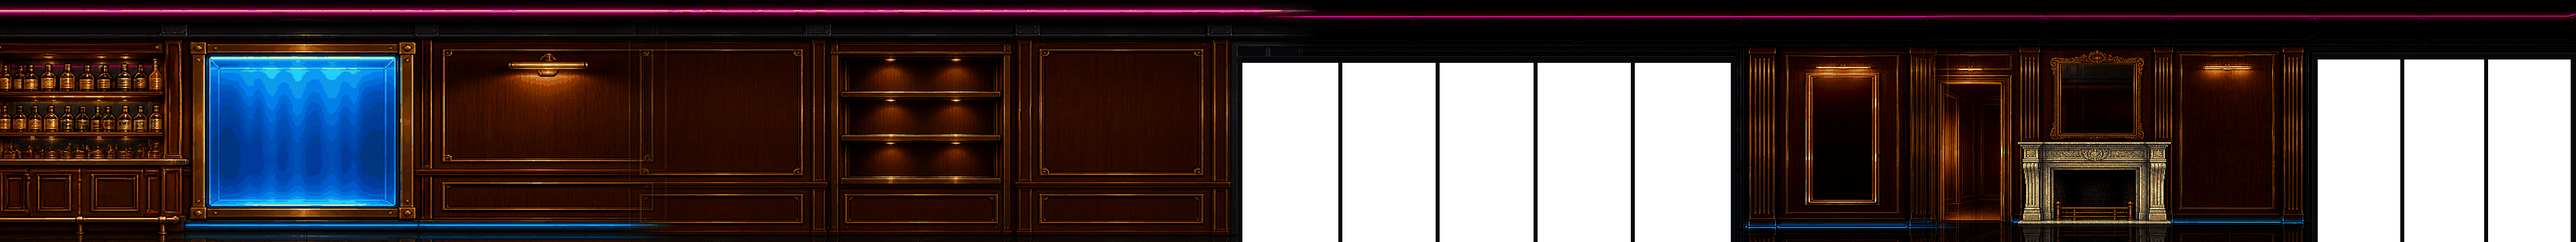
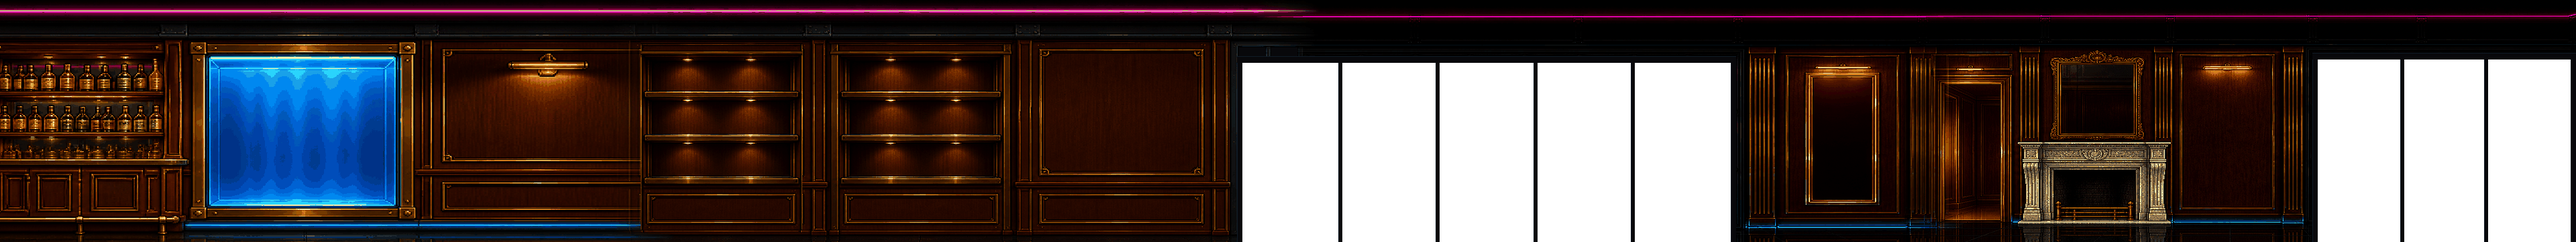
Two trophy niches, a built-in humidor, and an oil over the hearth

diff --git a/js/hub.js b/js/hub.js
@@ -41,7 +41,25 @@ const CEIL_MOUNT = 20;     // the window head beam, which is what the bag hangs 
 // picture light), TROPHIES AND MEDIA (alcove between two media walls), THE VIEW.
 const BAR = [0, 132];
 const TANK = { x: 150, y: 41, w: 150, h: 114 };     // the lit water, not the frame
-const ALCOVE = [629, 747];                          // niche interior
+// Two niches: the plate's original and the mirrored copy clone_alcove paints into the
+// bay next door. Three relics across a 118-wide niche leaves ~13 of air between them;
+// four fits arithmetically (the widest relic is 26) but leaves 3, which reads as a
+// jumble sale rather than a trophy wall.
+const NICHES = [[485, 595], [629, 747]];
+const SHELF_Y = [70, 103, 135];
+const ACROSS = 3;
+
+// One shelf is one country: ACROSS is the acts per country, so a shelf fills up exactly
+// as a chapter is cleared and the wall reads a country at a time. Niche-major, not
+// shelf-major - running a row across both niches would split a country over the pier.
+export const RELIC_SLOTS = NICHES.flatMap(([x0, x1]) => {
+  const step = (x1 - x0) / ACROSS;
+  return SHELF_Y.flatMap((y) => Array.from({ length: ACROSS },
+    (_, i) => [Math.round(x0 + step * (i + 0.5)), y]));
+});
+// Both niches together, for the cull and the select bracket.
+const TROPHY_WALL = [NICHES[0][0], NICHES[NICHES.length - 1][1]];
+
 // Every glass opening build_lair_wide.py leaves in the plate - it prints this list. The
 // gym's long run, then the bedroom's corner window.
 const OPENINGS = [[922, 1294], [1723, 1920]];
@@ -59,7 +77,7 @@ export const FIXTURES = [
   { id: 'bar', x: 60, hint: 'POUR ONE' },
   { id: 'tank', x: 225, hint: 'FEED THEM' },
   { id: 'lounge', x: 395, hint: 'SIT AND SMOKE' },
-  { id: 'trophies', x: 688, hint: 'TROPHY WALL' },
+  { id: 'trophies', x: 616, hint: 'TROPHY WALL' },   // the pier between the two niches
   { id: 'map', x: 800, hint: 'WORLD TOUR' },
   { id: 'hifi', x: 880, hint: 'SOUND TEST' },
   { id: 'bag', x: BAG_X, hint: 'WORK THE BAG', key: 'Z' },
@@ -120,11 +138,13 @@ const BED = { x: BED_X, y: WALL_BASE + 2, w: 140, h: 72 };
 const LAIR_ART = [
   // the lounge: stools at the painted bar, the portrait under its picture light
   { art: 'lair_bar_stools', x: 92, y: WALL_BASE, w: 46, h: 40 },
-  { art: 'lair_portrait', x: 395, y: 140, w: 106, h: 84 },
-  { art: 'lair_humidor', x: 485, y: WALL_BASE, w: 33, h: 88 },
-  // trophies and media. The arcade cabinet is decor now - its attract loop still runs,
-  // but HALL OF PAIN is gone and its records live on the trophy wall.
-  { art: 'lair_arcade', x: 555, y: WALL_BASE, w: 34, h: 68 },
+  // centred in its bay, whose gold inset measures x 330-477.5
+  { art: 'lair_portrait', x: 404, y: 140, w: 106, h: 84 },
+  // Trophies. Two niches now - see clone_alcove in tools/build_lair_wide.py - with the
+  // cigar cabinet built flush into the second one's base panel (482.5-591 x 147-165.5)
+  // rather than standing in front of the wall. The arcade cabinet is gone: it was the
+  // only injection-moulded object in a walnut room, and this bay is worth more as shelf.
+  { art: 'lair_humidor_built', x: 537, y: 166, w: 98, h: 19 },
   // centred in the panelled bay, whose gold inset measures x 775.75-895.75, y 37-130
   { art: 'lair_worldmap', x: 836, y: 109, w: 80, h: 48 },
   { art: 'lair_hifi', x: 880, y: WALL_BASE, w: 48, h: 60 },
@@ -141,6 +161,12 @@ const LAIR_ART = [
   // rather than white: the tiger sleeps in this room too, and the dark mane is what
   // frames the ivory fangs so they still read at this size. It lies forward of the wall
   // base, out into the walking lane, because that is where a rug in front of a fire goes.
+  // The oil over the hearth, covering the plate's overmantel mirror (frame 1528-1600,
+  // y 37.5-103.5) with a couple of px to spare on the ornate crest. Hung on the
+  // FIREPLACE's centre, not the mirror's - the plate has them 1.5px apart, and the eye
+  // lines a picture up with the mantel under it. It is the fight that produced the pelt
+  // lying on the floor directly below it.
+  { art: 'lair_overmantel', x: 1562, y: 105, w: 77, h: 68 },
   { art: 'lair_bed_rug', x: 1570, y: WALL_BASE + 55, w: 138, h: 54 },
   // as close to the bed as the wall allows - the window jamb starts at 1723
   { art: 'lair_bed_wardrobe', x: 1688, y: WALL_BASE, w: 62, h: 96 },
@@ -185,10 +211,6 @@ function fallbackArt(name, w, h) {
   } else if (name === 'lair_bar_stools') {
     panel('#3a2214', '#8a5a2a');
     P.rect(0, 2, w, 4, '#c8bca8');
-  } else if (name === 'lair_arcade') {
-    panel('#141018', '#3a3a4a');
-    P.rect(3, 3, w - 6, 4, '#d838a0');
-    P.rect(3, h * 0.16, w * 0.6, h * 0.28, '#05050a');
   } else if (name === 'lair_hifi') {
     panel('#101018', '#3a3a4a');
     for (let y = 6; y < h - 8; y += 9) P.rect(3, y, w * 0.5, 6, '#1a1a24');
@@ -196,9 +218,13 @@ function fallbackArt(name, w, h) {
     P.rect(0, h - 5, w, 4, '#2a2a34');
     P.rect(0, h * 0.4, w, 3, '#2a2a34');
     for (let i = 0; i < 5; i++) P.disc(8 + i * (w - 16) / 4, h * 0.34, 4, '#3a3a46');
-  } else if (name === 'lair_humidor') {
-    panel('#3a2214', '#8a5a2a');
-    P.rect(4, 6, w - 8, h - 14, '#5a3a1e');
+  } else if (name === 'lair_humidor_built') {
+    panel('#2a1a10', '#8a5a2a');
+    for (let i = 0; i < 4; i++) P.rect(4 + i * (w - 8) / 4, 3, (w - 8) / 4 - 3, h - 9, '#5a3a1e');
+  } else if (name === 'lair_overmantel') {
+    panel('#3a2a12', '#c8a038');
+    P.rect(6, 6, w - 12, h - 12, '#221a12');
+    P.disc(w * 0.4, h * 0.42, 9, '#c89a68');
   } else if (name === 'lair_bag_chain') {
     for (let y = 0; y < h; y += 3) P.rect(w / 2 - 1, y, 2, 2, (y / 3) & 1 ? '#7a7488' : '#3e3a4c');
   } else if (name === 'lair_lounge_empty' || name === 'lair_lounge_chad') {
@@ -261,10 +287,10 @@ function buildLairMid() {
   wood(WINDOW[1], CEIL, HUB_WIDTH - WINDOW[1], BASE - CEIL);
   P.rect(BAR[0], 120, BAR[1] - BAR[0], 40, '#3a2214');
   P.rect(TANK.x, TANK.y, TANK.w, TANK.h, '#12506e');
-  // the alcove, with its three shelves where SHELVES says they are
-  P.rect(ALCOVE[0] - 4, 35, ALCOVE[1] - ALCOVE[0] + 8, 104, '#0a0810');
-  for (const shelf of SHELVES) {
-    P.rect(ALCOVE[0], shelf.y - 2, ALCOVE[1] - ALCOVE[0], 3, '#c89a4a');
+  // both niches, with their shelves where SHELF_Y says they are
+  for (const [x0, x1] of NICHES) {
+    P.rect(x0 - 4, 35, x1 - x0 + 8, 104, '#0a0810');
+    for (const y of SHELF_Y) P.rect(x0, y - 2, x1 - x0, 3, '#c89a4a');
   }
   P.rect(MIRROR.x, MIRROR.y, MIRROR.w, MIRROR.h, '#2a2634');
   for (let x = WINDOW[0]; x < WINDOW[1]; x += 60) P.rect(x, CEIL, 4, BASE - CEIL, '#12121a');
@@ -516,10 +542,12 @@ function drawFirelight(ctx, camX) {
   ctx.fillStyle = g;
   ctx.fillRect(fx - 120, FLOOR_Y - 124, 240, 244);
 
-  // the overmantel mirror is a dead black rectangle otherwise; this is the fire in it
+  // Firelight climbing the oil above the hearth. This used to be the fire REFLECTED in
+  // the overmantel mirror, which wanted to be bright; a canvas only catches the light, so
+  // it is half the strength and warmer at the bottom edge nearest the flames.
   const mx = OVERMANTEL[0] - camX;
   const m = ctx.createLinearGradient(0, OVERMANTEL[1] + OVERMANTEL[3], 0, OVERMANTEL[1]);
-  m.addColorStop(0, `rgba(255,150,60,${0.16 * flick})`);
+  m.addColorStop(0, `rgba(255,160,70,${0.08 * flick})`);
   m.addColorStop(1, 'rgba(255,120,50,0)');
   ctx.fillStyle = m;
   ctx.fillRect(mx, OVERMANTEL[1], OVERMANTEL[2], OVERMANTEL[3]);
@@ -565,7 +593,7 @@ export const HUB_STAGE = {
     { x: 60, y: 130, r: 48, col: '255,180,90', a: 0.14 },
     { x: 225, y: 150, r: 58, col: '90,200,230', a: 0.15 },
     { x: 395, y: 60, r: 44, col: '255,190,110', a: 0.13 },
-    { x: 555, y: 156, r: 40, col: '216,56,160', a: 0.12 },
+    { x: 537, y: 150, r: 46, col: '255,180,90', a: 0.13 },
     { x: 688, y: 150, r: 46, col: '255,180,90', a: 0.13 },
     { x: 800, y: 92, r: 44, col: '110,190,255', a: 0.13 },
     { x: 880, y: 150, r: 38, col: '60,220,140', a: 0.10 },
@@ -1064,7 +1092,6 @@ export function drawHubWall(ctx, camX) {
   drawBed(ctx, camX);
 
   drawMirrorGlint(ctx, camX);
-  drawArcadeScreen(ctx, camX);
   drawHifiMeters(ctx, camX);
   drawMapPins(ctx, camX);
   drawBagChain(ctx, camX);
@@ -1100,28 +1127,16 @@ function drawFixtureArt(ctx, camX, d, img) {
 // Surface y is where a relic's feet go, measured off the plate's glass shelves. The
 // tightest bay is the top one at 25 logical of headroom, which is what caps relic
 // height in tools/process_props.py.
-const SHELVES = [
-  { y: 70, xs: [660, 716] },
-  { y: 103, xs: [660, 716] },
-  { y: 135, xs: [688] },
-];
-
 const beatenBosses = () => Object.keys(BOSSES)
   .map((k) => ({ k, act: STAGES.findIndex((s) => s.boss === k) }))
   .filter((b) => b.act >= 0 && b.act < G.unlockedStage)
   .sort((a, b) => a.act - b.act);
 
-function relicSlots() {
-  const out = [];
-  for (const shelf of SHELVES) for (const sx of shelf.xs) out.push([sx, shelf.y]);
-  return out;
-}
-
 function drawAlcove(ctx, camX) {
-  const ox = ALCOVE[0] - camX;
-  if (ox > W || ox + (ALCOVE[1] - ALCOVE[0]) < 0) return;
+  const ox = TROPHY_WALL[0] - camX;
+  if (ox > W || ox + (TROPHY_WALL[1] - TROPHY_WALL[0]) < 0) return;
   const beaten = beatenBosses();
-  const slots = relicSlots();
+  const slots = RELIC_SLOTS;
   beaten.forEach((b, n) => {
     if (n >= slots.length) return;
     const img = ASSETS['lair_relic_' + b.k];
@@ -1169,65 +1184,6 @@ function drawMirrorGlint(ctx, camX) {
     ctx.fillRect(sx, sy - 5, 1, 11);
     ctx.fillRect(sx - 1, sy - 1, 3, 3);
   }
-}
-
-// The cabinet ships with a flat black screen so the attract loop can live here. The
-// screen is 13x16 logical, measured off assets/lair/arcade.png - at that size the only
-// thing that reads as a beat em up is what an actual one puts on screen: two health
-// bars, two fighters and a floor.
-const SCREEN = { dx: -7, y: 136, w: 13, h: 16 };
-function drawArcadeScreen(ctx, camX) {
-  // decor since HALL OF PAIN was retired, so its x comes off the wall art, not FIXTURES
-  const x = Math.round(artAt('lair_arcade').x - camX);
-  if (x < -30 || x > W + 30) return;
-  const sx = x + SCREEN.dx, sy = SCREEN.y, sw = SCREEN.w, sh = SCREEN.h;
-  ctx.save();
-  ctx.beginPath();
-  ctx.rect(sx, sy, sw, sh);
-  ctx.clip();
-  ctx.fillStyle = '#0a0616';
-  ctx.fillRect(sx, sy, sw, sh);
-
-  // a loop of exchanges: each side chips the other's bar down, then it resets
-  const loop = G.rawTime % 900;
-  const beat = (loop >> 3) & 3;
-  ctx.fillStyle = '#1a1430';
-  ctx.fillRect(sx + 1, sy + 1, 5, 1);
-  ctx.fillRect(sx + 7, sy + 1, 5, 1);
-  ctx.fillStyle = '#ffd94a';
-  ctx.fillRect(sx + 1, sy + 1, Math.max(1, 5 - ((loop / 180) | 0)), 1);
-  ctx.fillStyle = '#d83858';
-  const hpB = Math.max(1, 5 - ((loop / 210) | 0));
-  ctx.fillRect(sx + 12 - hpB, sy + 1, hpB, 1);
-
-  const scroll = (G.rawTime >> 2) % 5;
-  ctx.fillStyle = '#241a44';
-  for (let i = -1; i < 4; i++) ctx.fillRect(sx + i * 5 + scroll, sy + 4, 3, 10);
-  ctx.fillStyle = '#3c2a66';
-  ctx.fillRect(sx, sy + 14, sw, 1);
-
-  // 3px wide with a skin-toned head is the smallest thing that still reads as a man
-  // rather than a bar of colour
-  const fy = sy + 14;
-  const man = (fx, body, head) => {
-    ctx.fillStyle = body;
-    ctx.fillRect(fx, fy - 4, 3, 4);
-    ctx.fillStyle = head;
-    ctx.fillRect(fx, fy - 6, 3, 2);
-  };
-  man(sx + 2 + (beat === 1 ? 1 : 0), '#2a2a3a', '#f0c090');
-  man(sx + 8 - (beat === 3 ? 1 : 0), '#8a2038', '#d8a878');
-  if (beat === 1 || beat === 3) {
-    ctx.fillStyle = '#fff8e0';
-    ctx.fillRect(sx + 6, fy - 4, 2, 2);
-  }
-
-  ctx.fillStyle = 'rgba(0,0,0,0.22)';
-  for (let i = sy; i < sy + sh; i += 2) ctx.fillRect(sx, i, sw, 1);
-  ctx.restore();
-  // marquee, warm and always on
-  ctx.fillStyle = 'rgba(255,220,150,0.18)';
-  ctx.fillRect(x - 12, 126, 18, 6);
 }
 
 // The amplifier's display panel, measured off assets/lair/hifi.png the same way.
@@ -1292,7 +1248,7 @@ function drawSelectRing(ctx, camX) {
   const boxes = {
     bar: [4, 34, 130, 140],
     tank: [TANK.x - 6, TANK.y - 6, TANK.w + 12, TANK.h + 12],
-    trophies: [ALCOVE[0] - 6, 33, ALCOVE[1] - ALCOVE[0] + 12, 110],
+    trophies: [TROPHY_WALL[0] - 6, 33, TROPHY_WALL[1] - TROPHY_WALL[0] + 12, 110],
     lounge: [LOUNGE.x - LOUNGE.w / 2 - 2, LOUNGE.y - LOUNGE.h, LOUNGE.w + 4, LOUNGE.h],
     map: artRing('lair_worldmap', 3),
     hifi: [880 - 26, WALL_BASE - 62, 52, 62],

diff --git a/js/main.js b/js/main.js
@@ -3,7 +3,7 @@ import { G, W, H, RS, STEP, DIFF, METER_MAX, FLOOR_TOP, FLOOR_BOT, clamp, addSco
 import { initInput, input, endFrameInput, pollGamepad, debugPress, debugRelease } from './input.js';
 import { SPR, drawTextShadow, textWidth, blit, frameW, frameH } from './sprites.js';
 import { initStage, initStageObj, drawStage, updateMotes, STAGES, stageDef } from './stages.js';
-import { HUB_STAGE, CHAPTERS, FIXTURES, BED_X, hubBed, createBag, resetHub, updateHub, drawHubWall, drawHubUI } from './hub.js';
+import { HUB_STAGE, CHAPTERS, FIXTURES, RELIC_SLOTS, BED_X, hubBed, createBag, resetHub, updateHub, drawHubWall, drawHubUI } from './hub.js';
 import { createProp } from './props.js';
 import { loadAmbience, updateAmbience, reactStage } from './ambience.js';
 import { loadFX, fx } from './fx.js';
@@ -956,6 +956,13 @@ if (autoMode) {
         t('hub-bed-ignores-him', hubBed().pose === before);
       }
       t('hub-room-is-four-screens', G.stage.width === 1920 && G.camMax === 1920 - W);
+      // The trophy wall is sized for the tour, not for the acts that exist today: two
+      // niches x three shelves x three across is six countries at three acts each.
+      // drawAlcove silently drops any relic past the last slot, so this is the check
+      // that the wall has not quietly run out of room.
+      t('hub-trophy-wall-fits-six-countries', RELIC_SLOTS.length >= 18);
+      t('hub-relics-clear-each-other', RELIC_SLOTS.every(([x, y], i) =>
+        RELIC_SLOTS.every(([x2, y2], j) => i === j || y !== y2 || Math.abs(x - x2) >= 30)));
       // the map panel: cursor moves, a locked act refuses, an unlocked one starts
       G.unlockedStage = 0;
       at('map'); tap('up');

diff --git a/js/assets.js b/js/assets.js
@@ -16,13 +16,13 @@ const FILES = {
   bg_lair_wall: 'assets/bg_lair_wall.png',
   bg_lair_floor: 'assets/bg_lair_floor.png',
   lair_worldmap: 'assets/lair/worldmap.png',
-  lair_arcade: 'assets/lair/arcade.png',
   lair_hifi: 'assets/lair/hifi.png',
   lair_map_panel: 'assets/lair/map_panel.png',
   bg_lair_sky_far: 'assets/bg_lair_sky_far.png',
   bg_lair_sky_near: 'assets/bg_lair_sky_near.png',
   lair_bar_stools: 'assets/lair/bar_stools.png',
-  lair_humidor: 'assets/lair/humidor.png',
+  lair_humidor_built: 'assets/lair/humidor_built.png',
+  lair_overmantel: 'assets/lair/overmantel.png',
   lair_portrait: 'assets/lair/portrait.png',
   lair_bag_chain: 'assets/lair/bag_chain.png',
   lair_gloves: 'assets/lair/gloves.png',

diff --git a/tools/build_lair_wide.py b/tools/build_lair_wide.py
@@ -215,6 +215,31 @@ def rebuild_window(wall, floor):
     return Image.fromarray(a, "RGBA"), Image.fromarray(f, floor.mode)
 
 
+def clone_alcove(wall):
+    """Give the trophy wall a second niche, by copying the one the plate already has.
+
+    One niche of three shelves holds five relics. At three per country that is not even
+    two countries, and the bay next door - between the lounge and the alcove - is dead
+    panelling that the arcade and the humidor were only standing in front of.
+
+    The niche is NOT regenerated. It is lit wood, brass rails and glass, and asking the
+    generator for a second one that matches is the panel-B-does-not-line-up-with-panel-C
+    problem again; copying the pixels is exact by construction. Both bays are bounded by
+    the same panelling, so the two frame verticals are all the alignment there is to get
+    right. The copy is MIRRORED: the wood grain and the lamp pools are the tell, and a
+    flipped niche reads as a matching pair rather than as the same object twice.
+    """
+    SRC = (1248, 52, 1498, 348)     # the alcove unit, its frame verticals included
+    DST = (955, 1196)               # the dead bay's frame verticals
+    niche = wall.crop(SRC).transpose(Image.Transpose.FLIP_LEFT_RIGHT)
+    niche = niche.resize((DST[1] - DST[0], SRC[3] - SRC[1]), Image.Resampling.LANCZOS)
+    out = wall.copy()
+    out.paste(niche, (DST[0], SRC[1]))
+    print(f"  second niche: logical {DST[0] / RS:.0f}-{DST[1] / RS:.0f} "
+          f"(shelves share SHELF_Y with the first)")
+    return out
+
+
 def quantized(img, colors):
     """MEDIANCUT only takes RGB, so quantize the colour and re-attach the alpha."""
     if img.mode != "RGBA":
@@ -251,6 +276,7 @@ def build_room(seams, key=True):
         wall = key_glass(wall)
         floor = fill_glass_reflection(floor)
         wall, floor = rebuild_window(wall, floor)
+    wall = clone_alcove(wall)
     quantized(wall, 160).save("assets/bg_lair_wall.png")
     quantized(floor, 96).save("assets/bg_lair_floor.png")
     print(f"lair: wall {wall.width}x{WALL_H}, floor {floor.width}x{FLOOR_H} "

diff --git a/tools/process_props.py b/tools/process_props.py
@@ -42,13 +42,16 @@ LAIR = {
     # between them. World scale is ~50 logical px per metre.
     "gym_plates": (34, 56),
     "gym_kettles": (56, 26),
-    # the widened room: a cigar cabinet and the painting
-    "humidor": (36, 88),
+    # the widened room: the painting over the sofa, the oil over the fireplace, and the
+    # cigar cabinet - which is now a flush front built into the second niche's base panel
+    # (logical 482.5-591 x 147-165.5), not a box standing against the wall
+    "humidor_built": (98, 19),
+    "overmantel": (77, 68),
     "portrait": (106, 84),
     # exactly the run from the ceiling bracket to the bag's collar, so it never tiles
     "bag_chain": (10, 100),
     # One relic per boss, standing in the alcove. Every bay is ~32 logical of headroom
-    # (SHELVES in js/hub.js is measured off the plate's glass shelf lines), so these
+    # (SHELF_Y in js/hub.js is measured off the plate's glass shelf lines), so these
     # clear it with a little air above.
     "relic_raja": (22, 26),
     "relic_mirchi": (22, 26),

diff --git a/CLAUDE.md b/CLAUDE.md
@@ -105,6 +105,23 @@ a 9x4 cage of 5px bars and panel B's grid did not line up with panel C's; a grid
 rectangles is geometry, and geometry is cheaper to paint than to ask for. It repaints the
 floor's reflection of those bars too, or the granite goes on reflecting the old window.
 
+**When the plate already contains what you need, copy it — do not ask for a second one.**
+The trophy wall needed a second niche (one held five relics; the tour wants three per
+country). A niche is lit wood, brass rails and glass, so *generating* a matching one is
+the panel-B-does-not-line-up-with-panel-C problem again. `clone_alcove()` copies the
+pixels of the one the plate has into the dead bay next door, which is exact by
+construction — both bays are bounded by the same panelling, so the two frame verticals
+are the only alignment to get right (source 1248-1498, dest 955-1196, one resize). The
+copy is **mirrored**: the wood grain and the baked lamp pools are the tell, and a flipped
+niche reads as a matching pair rather than the same object twice. Verify the builder is
+byte-reproducible (`md5` before and after a no-op run) before adding a step like this, or
+you cannot tell your change from a drifting rebuild.
+
+`RELIC_SLOTS` is then **niche-major, not shelf-major**: one shelf is one country, so a
+row must not run across the pier between the niches. `?auto=verify` checks the wall holds
+six countries and that no two slots on a shelf are within 30 logical of each other —
+`drawAlcove` silently drops any relic past the last slot.
+
 **Anything animated in the room is one strip**, never separate generations: the gym rigs,
 the lounge sofa and the bedroom's bed all hold their furniture and their occupants in the
 same sprite. **The bed is the exception, and the reason is worth reading before you

diff --git a/README.md b/README.md
@@ -371,7 +371,7 @@ processed files from `assets/` and `assets/frames/`. Image generation goes throu
 | `tools/gen_lair_bed_poses.sh` | the bed and its two occupants, one generation per pose against a fixed reference; `check_bed_poses.py` then measures whether each pose held the furniture still, and `check_bed_anim.py` checks the built frames for movement and flow |
 | `tools/gen_lair_gym.sh` | the training area in front of the glass: the dumbbell rack and the bench press as four-pose strips (rig alone, then CHAD on it), plus the plate tree and kettlebells |
 | `tools/gen_lair_pets.sh` | the shark and shoal for the tank, and the tiger's sheets |
-| `tools/gen_lair_props.sh` | the lair's fixtures: world map, arcade cabinet, hi-fi, heavy bag, map panel |
+| `tools/gen_lair_props.sh` | the lair's fixtures: world map, hi-fi, built-in humidor, the oil over the hearth, heavy bag, map panel |
 | `tools/gen_lair_lounge.sh` | the sofa pair (empty / CHAD sitting smoking) and the dog's walk sheet |
 | `tools/build_lair_extras.py` | the lair sprite sets whose frames must register with each other: the lounge pair, the two gym stations, the bed, the fire, the tiger and the tank |
 | `tools/make_portrait.py` | crop a HUD portrait out of a reference sheet |
